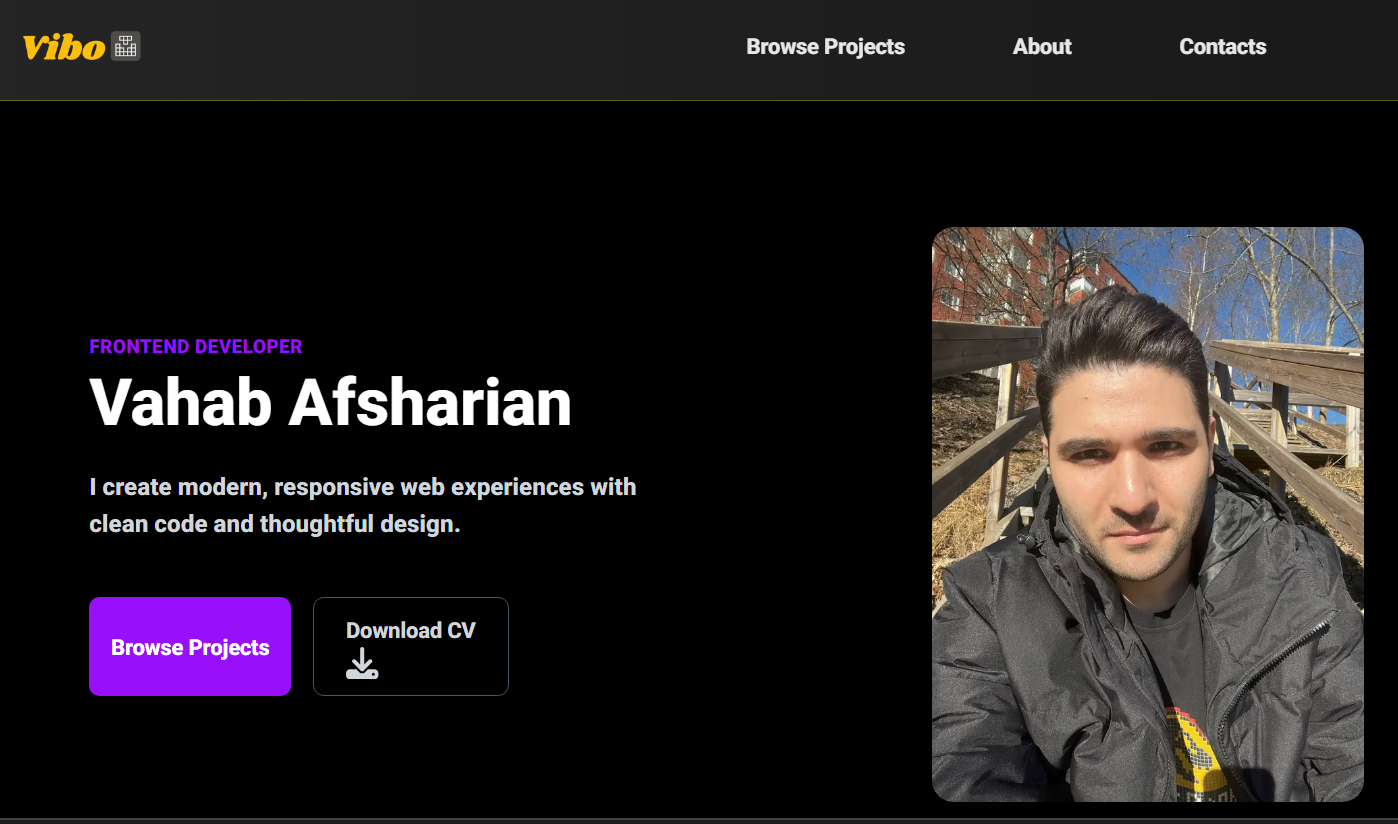
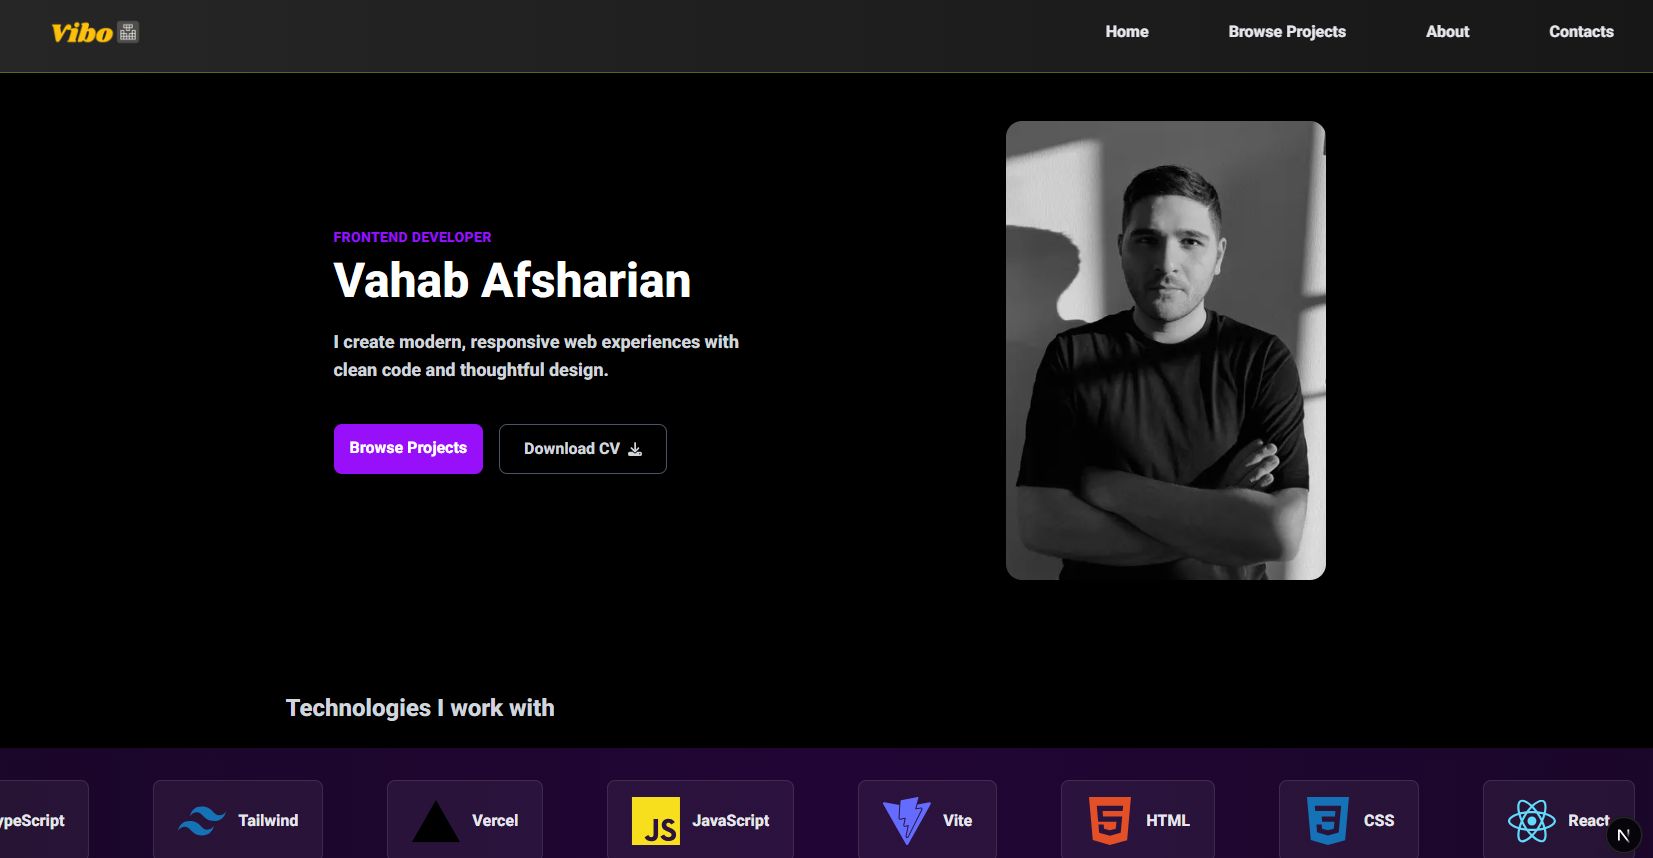
Refactor code structure for improved readability and maintainability

diff --git a/src/app/projects/page.tsx b/src/app/projects/page.tsx
@@ -15,47 +15,43 @@ export default function ProjectsPage() {
    const projects = [
       {
          id: 1,
-         title: "FetchFlix",
-         description:
-            "React app integrating SWAPI and Firebase to search, save, and manage movies. Features a clean interface with responsive design.",
-         image: "/projects/fetchflix.png",
-         demoUrl: "https://fetch-movie-app.vercel.app/",
-         githubUrl:
-            "https://github.com/viboverse/my-portfolio/tree/main/fetch-movie",
-         techStack: [SiReact, SiTailwindcss, SiCss3, SiJavascript],
-      },
-      {
-         id: 2,
          title: "Tic-Tac-Toe",
          description:
             "A modern, responsive Tic Tac Toe game with a clean UI and an unbeatable AI opponent. Play against a friend or challenge the AI for a strategic battle you can't win.",
          image: "/projects/tic-tac-toe.png",
          demoUrl: "https://tic-tac-toe-bay-mu-94.vercel.app/",
-         githubUrl:
-            "https://github.com/viboverse/my-portfolio/tree/main/tic-tac-toe-game-app",
+         githubUrl: "https://github.com/viboverse/tic-tac-toe-game-app",
          techStack: [SiReact, SiTypescript, SiHtml5, SiCss3, SiVite, SiVercel],
       },
       {
-         id: 3,
+         id: 2,
          title: "Weather App",
          description:
             "Real-time weather forecasts with a responsive UI and animations. Features location-based weather data, beautiful animations, and intuitive user experience.",
          image: "/projects/weather-app.png",
          demoUrl: "https://react-weather-app-indol-five.vercel.app/",
-         githubUrl:
-            "https://github.com/viboverse/my-portfolio/tree/main/react-weather-app",
+         githubUrl: "https://github.com/viboverse/react-weather-app",
          techStack: [SiReact, SiVite, SiVercel, SiTailwindcss, SiJavascript],
       },
       {
-         id: 4,
+         id: 3,
          title: "Project Manager",
          description:
             "Task & project management app with authentication and state management. Features project organization, task tracking, and user authentication for seamless workflow management.",
          image: "/projects/project-manager-app.png",
          demoUrl: "https://project-manager-app-nine.vercel.app/",
-         githubUrl:
-            "https://github.com/viboverse/my-portfolio/tree/main/project-manager-app",
+         githubUrl: "https://github.com/viboverse/project-manager-app",
          techStack: [SiReact, SiCss3, SiHtml5, SiVite, SiVercel, SiJavascript],
+      },
+      {
+         id: 4,
+         title: "FetchFlix",
+         description:
+            "React app integrating SWAPI and Firebase to search, save, and manage movies. Features a clean interface with responsive design.",
+         image: "/projects/fetchflix.png",
+         demoUrl: "https://fetch-movie-app.vercel.app/",
+         githubUrl: "https://github.com/viboverse/fetch-movie",
+         techStack: [SiReact, SiTailwindcss, SiCss3, SiJavascript],
       },
       {
          id: 5,
@@ -64,8 +60,7 @@ export default function ProjectsPage() {
             "Modern portfolio website built with Next.js and TypeScript. Showcases my projects, skills, and contact information with responsive design and smooth animations.",
          image: "/projects/personal-portfolio.png",
          demoUrl: "https://my-portfolio-eight-orpin-69.vercel.app/",
-         githubUrl:
-            "https://github.com/viboverse/my-portfolio/tree/main/my-personal-portfolio", // Update with actual portfolio repo
+         githubUrl: "https://github.com/viboverse/my-personal-portfolio",
          techStack: [
             SiReact,
             SiNextdotjs,

diff --git a/src/components/HeroSection.tsx b/src/components/HeroSection.tsx
@@ -1,12 +1,12 @@
 import Image from "next/image";
-import mainImage from "@/../public/vibo-circle.jpg";
+import mainImage from "@/../public/images/vibo-fullsize.jpg";
 import { FaDownload } from "react-icons/fa6";
 import Link from "next/link";
 
 export default function HeroSection() {
    return (
-      <section className="flex min-h-screen items-center justify-between px-8 py-16">
-         <div className="mx-auto grid max-w-6xl items-center gap-12 md:grid-cols-2">
+      <section className="flex items-center justify-between px-8 py-12">
+         <div className="mx-auto grid items-center gap-24 md:grid-cols-2">
             <div className="space-y-6">
                <div className="space-y-2">
                   <p className="text-sm tracking-wide text-purple-600 uppercase">
@@ -31,9 +31,9 @@ export default function HeroSection() {
                      Browse Projects
                   </Link>
                   <a
-                     href="/resume.pdf"
-                     download="vahab_afsharian_resume.pdf"
-                     className="flex cursor-pointer items-center gap-2 rounded-lg border border-gray-600 px-6 py-3 font-medium text-gray-300 transition-all hover:border-gray-500 hover:text-white"
+                     // href="/resume.pdf"
+                     // download="vahab_afsharian_resume.pdf"
+                     className="flex cursor-not-allowed items-center gap-2 rounded-lg border border-gray-600 px-6 py-3 font-medium text-gray-300 transition-all hover:border-gray-500 hover:text-white"
                   >
                      Download CV
                      <FaDownload className="text-sm" />
@@ -46,7 +46,8 @@ export default function HeroSection() {
                   width={320}
                   height={320}
                   alt="Vahab Afsharian"
-                  className="rounded-full shadow-2xl"
+                  className="w-full max-w-[280px] rounded-2xl shadow-2xl md:max-w-[320px]"
+                  priority
                />
             </div>
          </div>

diff --git a/src/components/MySkills.tsx b/src/components/MySkills.tsx
@@ -8,6 +8,9 @@ import {
    SiNextdotjs,
    SiReact,
    SiTypescript,
+   SiTailwindcss,
+   SiVite,
+   SiVercel,
 } from "react-icons/si";
 
 export default function MySkills() {
@@ -15,12 +18,21 @@ export default function MySkills() {
       { name: "React", icon: <SiReact color="#61DAFB" size={48} /> },
       { name: "Next.js", icon: <SiNextdotjs color="#000000" size={48} /> },
       { name: "TypeScript", icon: <SiTypescript color="#3178C6" size={48} /> },
+      { name: "Tailwind", icon: <SiTailwindcss color="#1572B6" size={48} /> },
+      { name: "Vercel", icon: <SiVercel color="#000000" size={48} /> },
       { name: "JavaScript", icon: <SiJavascript color="#F7DF1E" size={48} /> },
+      { name: "Vite", icon: <SiVite color="#646cff" size={48} /> },
       { name: "HTML", icon: <SiHtml5 color="#E34F26" size={48} /> },
       { name: "CSS", icon: <SiCss3 color="#1572B6" size={48} /> },
    ];
 
-   const repeatedSkills = [...skills, ...skills, ...skills];
+   const repeatedSkills = [
+      ...skills,
+      ...skills,
+      ...skills,
+      ...skills,
+      ...skills,
+   ];
 
    return (
       <section className="py-16">

diff --git a/src/components/MainHeader.tsx b/src/components/MainHeader.tsx
@@ -10,7 +10,7 @@ export default function MainHeader() {
 
    return (
       <header className="border-old-gold-400/30 border-b bg-gradient-to-r from-neutral-800 to-neutral-900 shadow-lg backdrop-blur-sm">
-         <nav className="mx-auto flex h-20 max-w-6xl items-center justify-between px-8">
+         <nav className="mx-auto flex h-20 items-center justify-between px-8">
             <Link href="/" className="text-xl font-bold">
                <Image
                   src={logo}
